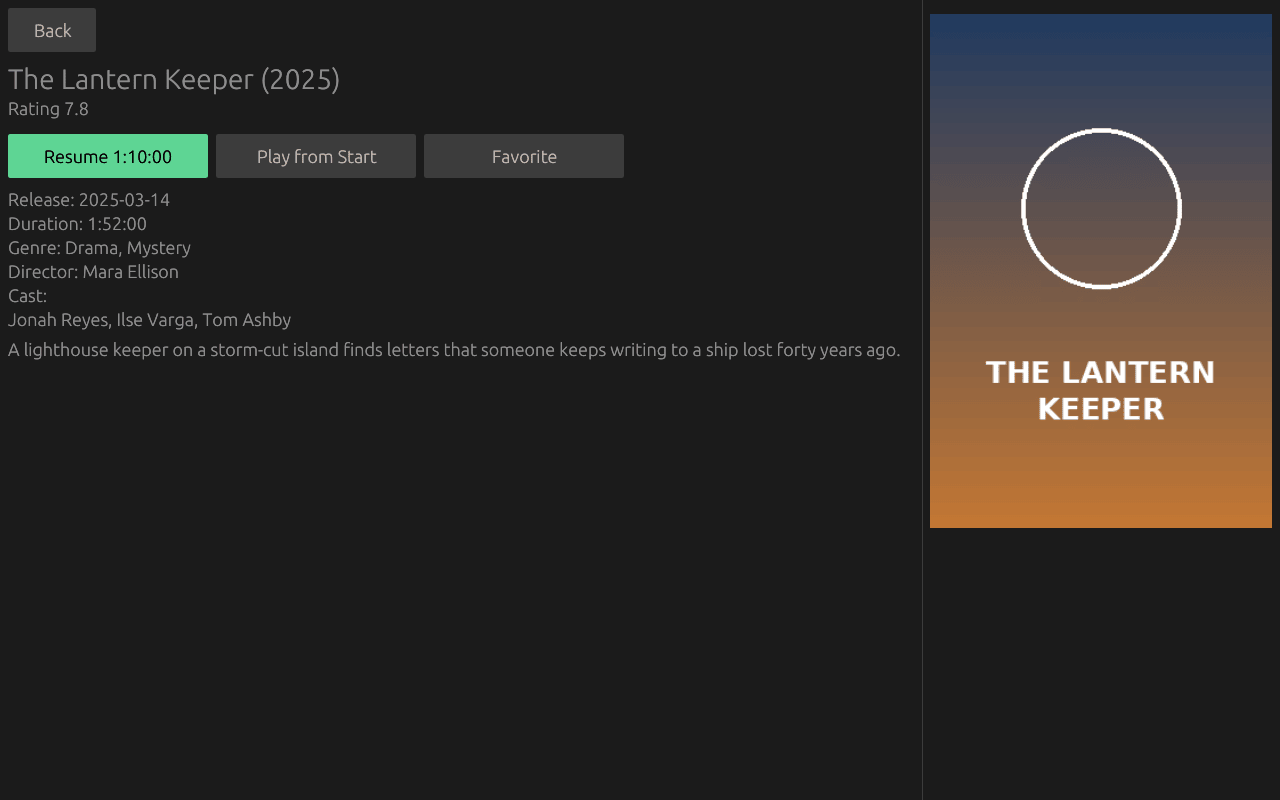
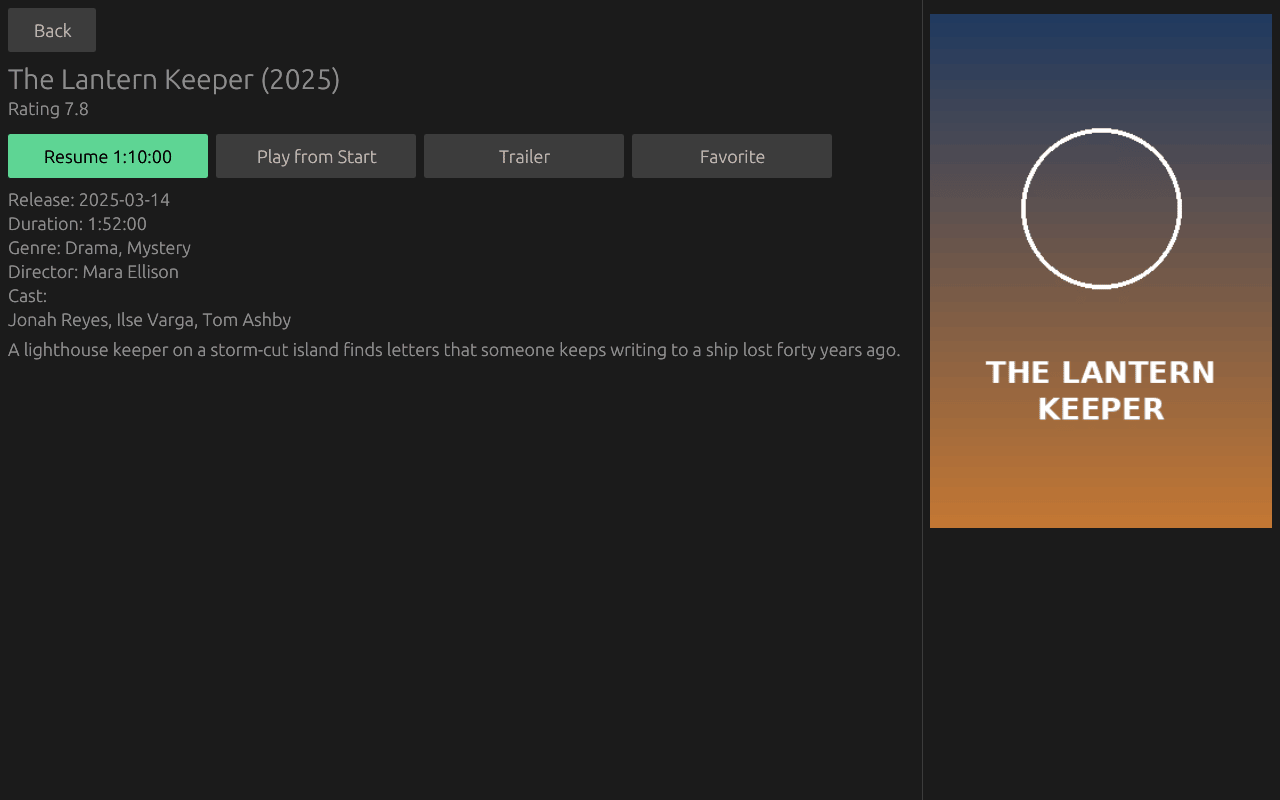
Retry black live pictures in the screenshot kit
On software OpenGL a live playback sometimes stays black, so the kit
now plays the channel again, up to four times, until the picture shows
colour. It reports each retry. The kit's movies list a trailer, so the
details screenshot shows the Trailer button, and the main screenshot
shows the account expiry footer.

Changed region(s): [[0.4688, 0.1562, 0.6562, 0.25], [0.375, 0.1875, 0.4375, 0.2188]]

diff --git a/scripts/screenshots/server.py b/scripts/screenshots/server.py
@@ -47,6 +47,7 @@ def api(action, query):
         return {"info": {"name": name, "description": PLOTS.get(mid, "A story told in quiet rooms and long journeys."),
                          "genre": genre, "director": "Mara Ellison", "cast": "Jonah Reyes, Ilse Varga, Tom Ashby",
                          "releasedate": f"{year}-03-14", "duration_secs": str(minutes * 60), "rating": rating,
+                         "youtube_trailer": "SkjalfDemo1",
                          "movie_image": f"{BASE}/images/movie-{mid}.png"},
                 "movie_data": {"stream_id": int(mid), "container_extension": "mkv"}}
     if action == "get_series_categories":
